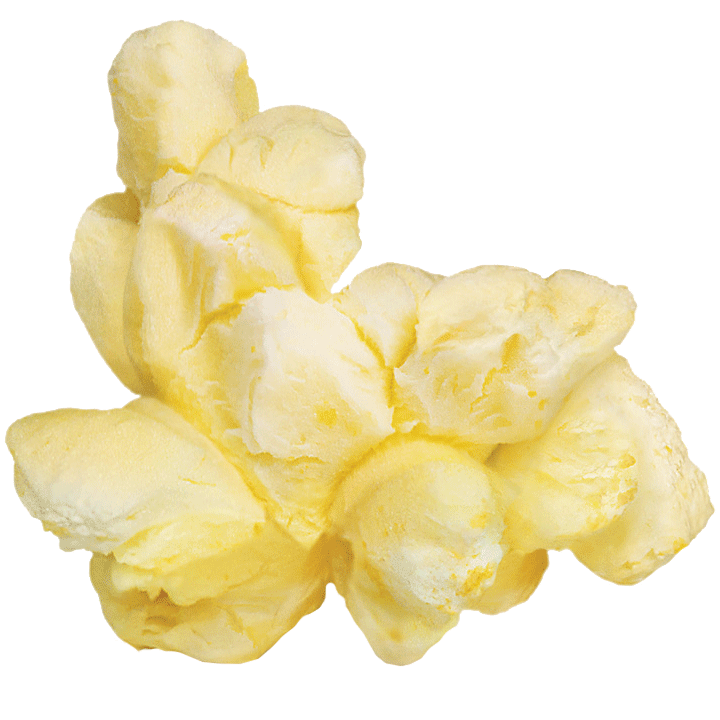
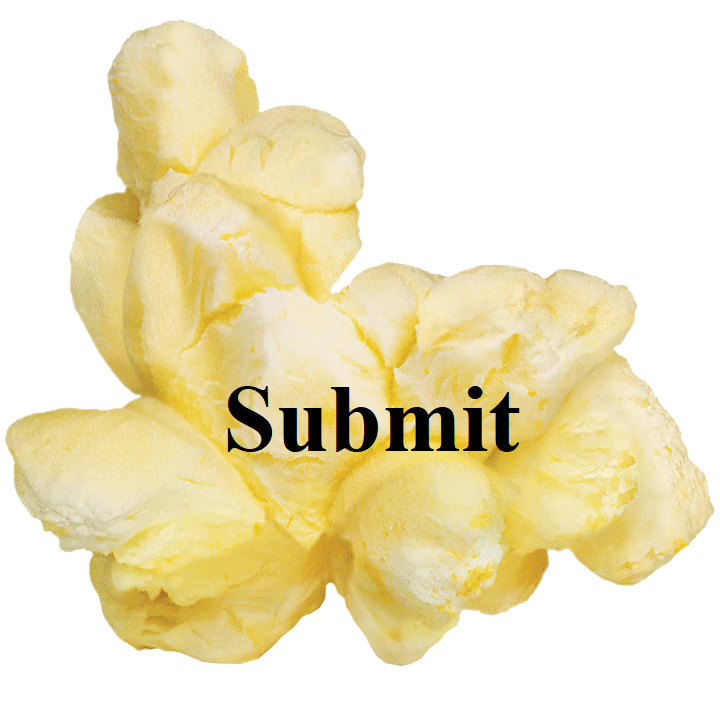
finished popcorn button ended up editing the image to include the text

Changed region(s): [[0.3056, 0.5194, 0.7333, 0.6417]]

diff --git a/index.html b/index.html
@@ -63,15 +63,7 @@
                         <div class="tile is-child">
                             <div class="content">
                                 <div class="content has-text-centered">
-                                    <button id="search-btn" class="button is-dark is-large is-rounded">
-                                        <span class="icon">
-                                            <img src="./assets/images/popcorn-piece.png">
-                                        </span>
-                                        <span>Submit</span>
-                                        <span class="icon">
-                                            <img src="./assets/images/popcorn-piece.png">
-                                        </span>
-                                    </button>
+                                   <input type="image" src="./assets/images/popcorn-piece.png" id="search-btn" class="popcorn" >
                                 </div>
                             </div>
                         </div>

diff --git a/assets/css/style.css b/assets/css/style.css
@@ -50,6 +50,9 @@ select {
     border-radius: 0;
 }
 
+.popcorn{
+    height: 150px;
+}
 
 
 .footer {
